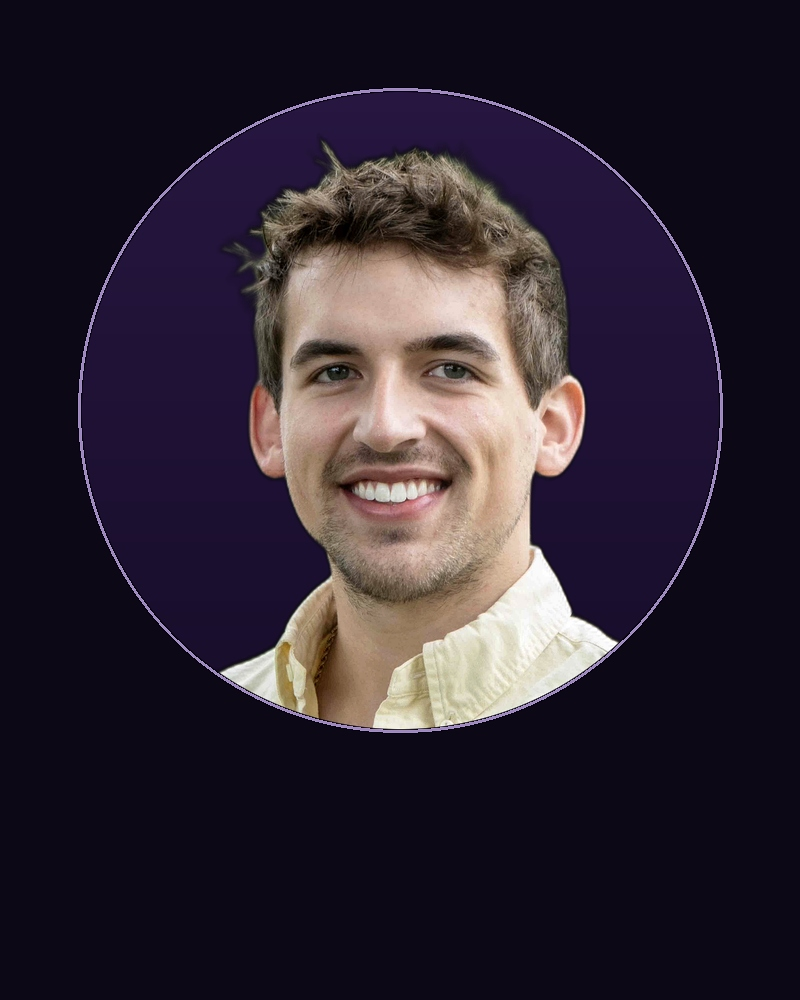
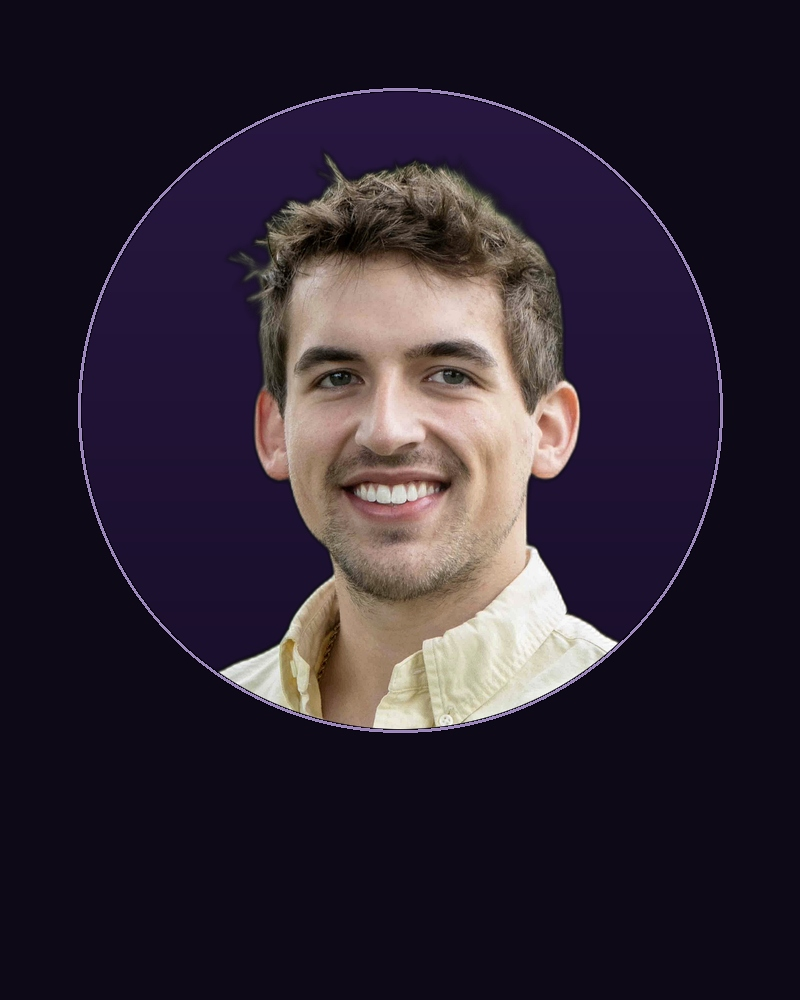
feat: perfected 3D glass world cards, dark purple cursor, portfolio placeholders, and executive showcase modals

diff --git a/src/components/Team.tsx b/src/components/Team.tsx
@@ -7,6 +7,13 @@ import jadaHeadshot from '../assets/Jada_Brown-Headshot-Master.jpg';
 import isaiahHeadshot from '../assets/Isaiah_Chandler-Headshot-Master.jpg';
 import joeHeadshot from '../assets/Joe_Irizarry-Headshot-Master.jpg';
 
+import glassCamera from '../assets/glass-3d-camera.png';
+import glassPlayer from '../assets/glass-3d-videoplayer.png';
+import glassKeyboard from '../assets/glass-3d-keyboard.png';
+import glassStars from '../assets/glass-3d-stars.png';
+import glassStylus from '../assets/glass-3d-stylus.png';
+import glassFilmstrip from '../assets/glass-3d-filmstrip.png';
+
 export const Team: React.FC = () => {
   const [activePortfolio, setActivePortfolio] = useState<{
     name: string;
@@ -39,10 +46,14 @@ export const Team: React.FC = () => {
       subRole: 'Brand & Client Experience Director',
       bio: 'Visionary brand architect leading creative direction, brand core definition, and client partnership. Jada works directly with clients to translate their identity into high-converting visual media.',
       image: jadaHeadshot,
-      imageBg: '#10080F', // Luxury dark rose studio backdrop
+      glassElement: glassPlayer,
+      secondaryGlassElement: glassStars,
+      glassPosition: 'top-[-18px] right-[-18px] w-36 h-36 sm:w-40 sm:h-40',
+      secondaryGlassPosition: 'left-[-8px] bottom-[12px] w-32 h-32',
+      bgGradient: 'radial-gradient(ellipse at 50% 30%, #4D183B 0%, #240C1B 55%, #12050E 100%)',
       icon: Sparkles,
       color: 'from-[#FF94C7] to-[#D83685]',
-      glowColor: 'rgba(255, 148, 199, 0.35)',
+      glowColor: 'rgba(255, 148, 199, 0.45)',
       badge: 'Agency Founder',
       portfolioUrl: '', // Jada's portfolio in development
     },
@@ -52,10 +63,14 @@ export const Team: React.FC = () => {
       subRole: 'Growth & Automation Strategist',
       bio: 'Operations mastermind architecting scalable post-production workflows, 3D web modeling, automated editing pipelines, and cost-effective remote talent integration for seamless client growth.',
       image: isaiahHeadshot,
-      imageBg: '#0C0814', // Deep amethyst tech studio backdrop
+      glassElement: glassKeyboard,
+      secondaryGlassElement: glassStylus,
+      glassPosition: 'top-[-22px] right-[-22px] w-32 h-32 sm:w-36 sm:h-36',
+      secondaryGlassPosition: 'left-[-18px] bottom-[26px] w-36 h-36',
+      bgGradient: 'radial-gradient(ellipse at 50% 30%, #381A5E 0%, #1A0A2F 55%, #0B0415 100%)',
       icon: Cpu,
       color: 'from-[#D4B8FF] to-[#7C3AED]',
-      glowColor: 'rgba(124, 58, 237, 0.35)',
+      glowColor: 'rgba(212, 184, 255, 0.45)',
       badge: 'Ops & Tech Lead',
       portfolioUrl: 'https://isaiah-chandler.netlify.app/',
     },
@@ -65,10 +80,14 @@ export const Team: React.FC = () => {
       subRole: 'Lead Visual Editor',
       bio: 'Master lensman and editor orchestrating high-impact commercial video shoots, studio photography, cinematic cuts, and the signature visual styling that sets Soul Media apart.',
       image: joeHeadshot,
-      imageBg: '#081014', // Midnight studio cyan backdrop
+      glassElement: glassCamera,
+      secondaryGlassElement: glassFilmstrip,
+      glassPosition: 'top-[-26px] right-[-26px] w-36 h-36 sm:w-40 sm:h-40',
+      secondaryGlassPosition: 'left-[-18px] bottom-[26px] w-36 h-36',
+      bgGradient: 'radial-gradient(ellipse at 50% 30%, #164652 0%, #0A2228 55%, #040E11 100%)',
       icon: Camera,
-      color: 'from-[#FF9E7A] to-[#059669]',
-      glowColor: 'rgba(5, 150, 105, 0.35)',
+      color: 'from-[#99FFE0] to-[#059669]',
+      glowColor: 'rgba(153, 255, 224, 0.45)',
       badge: 'Production Engine',
       portfolioUrl: '', // Joe's portfolio in development
     },
@@ -270,47 +289,69 @@ export const Team: React.FC = () => {
                 {/* Image Container — Precision-Framed with Ambient Lighting */}
                 <div
                   className="relative aspect-[4/5] overflow-hidden"
-                  style={{ backgroundColor: member.imageBg }}
+                  style={{ background: member.bgGradient }}
                 >
-                  {/* Rich ambient brand glow — visible, not washed out */}
+                  {/* Rich ambient brand glow on hover */}
                   <div
-                    className={`absolute inset-0 bg-gradient-to-br ${member.color} opacity-0 group-hover:opacity-30 transition-opacity duration-700 pointer-events-none`}
-                    style={{ filter: 'blur(40px)', transform: 'scale(1.2)' }}
+                    className={`absolute inset-0 bg-gradient-to-br ${member.color} opacity-0 group-hover:opacity-40 transition-opacity duration-700 pointer-events-none`}
+                    style={{ filter: 'blur(30px)', transform: 'scale(1.1)' }}
                   />
 
-                  {/* Master pre-framed headshot asset */}
+                  {/* Master Pre-Framed Headshot Asset */}
                   <img
                     src={member.image}
                     alt={member.name}
-                    className="w-full h-full object-cover transition-all duration-700 ease-out group-hover:scale-[1.04]"
+                    className="w-full h-full object-cover relative z-10 transition-transform duration-700 ease-out group-hover:scale-105"
                   />
 
-                  {/* Bottom-only gradient fade — subtle, NOT washed out */}
-                  <div
-                    className="absolute inset-x-0 bottom-0 h-[35%] pointer-events-none transition-opacity duration-500"
-                    style={{
-                      background: 'linear-gradient(to top, #FFF5F8 0%, rgba(255,245,248,0.6) 40%, transparent 100%)',
-                    }}
-                  />
+                  {/* Top-Right Primary 3D Glass Branded Object (Pushed to Extreme Corner — Zero Face Overlap) */}
+                  {member.glassElement && (
+                    <motion.div
+                      className={`absolute ${member.glassPosition || 'top-[-20px] right-[-20px] w-36 h-36'} opacity-85 group-hover:opacity-100 group-hover:scale-110 transition-all duration-700 pointer-events-none z-20 mix-blend-screen`}
+                      animate={{ y: [0, -8, 0], rotate: [0, 3, -3, 0] }}
+                      transition={{ duration: 7, repeat: Infinity, ease: 'easeInOut' }}
+                    >
+                      <img
+                        src={member.glassElement}
+                        alt="Primary 3D Glass Element"
+                        className="w-full h-full object-contain filter drop-shadow-[0_12px_28px_rgba(255,255,255,0.6)]"
+                      />
+                    </motion.div>
+                  )}
 
-                  {/* Subtle top vignette for depth */}
+                  {/* Bottom-Left Secondary 3D Glass Branded Object (Pushed to Extreme Corner — Zero Face Overlap) */}
+                  {member.secondaryGlassElement && (
+                    <motion.div
+                      className={`absolute ${member.secondaryGlassPosition || 'left-[-8px] bottom-[10px] w-32 h-32'} opacity-75 group-hover:opacity-100 group-hover:scale-115 transition-all duration-700 pointer-events-none z-20 mix-blend-screen`}
+                      animate={{ y: [0, 8, 0], rotate: [0, -4, 4, 0] }}
+                      transition={{ duration: 6, repeat: Infinity, ease: 'easeInOut', delay: 0.5 }}
+                    >
+                      <img
+                        src={member.secondaryGlassElement}
+                        alt="Secondary 3D Glass Element"
+                        className="w-full h-full object-contain filter drop-shadow-[0_8px_20px_rgba(255,255,255,0.5)]"
+                      />
+                    </motion.div>
+                  )}
+
+                  {/* Bottom-only gradient fade */}
                   <div
-                    className="absolute inset-x-0 top-0 h-[15%] pointer-events-none"
+                    className="absolute inset-x-0 bottom-0 h-[25%] pointer-events-none transition-opacity duration-500 z-20"
                     style={{
-                      background: `linear-gradient(to bottom, ${member.imageBg}33 0%, transparent 100%)`,
+                      background: 'linear-gradient(to top, #FFF5F8 0%, rgba(255,245,248,0.4) 50%, transparent 100%)',
                     }}
                   />
 
                   {/* Ambient edge glow on hover */}
                   <div
-                    className="absolute inset-0 opacity-0 group-hover:opacity-100 transition-opacity duration-700 pointer-events-none"
+                    className="absolute inset-0 opacity-0 group-hover:opacity-100 transition-opacity duration-700 pointer-events-none z-30"
                     style={{
                       boxShadow: `inset 0 0 60px 10px ${member.glowColor}`,
                     }}
                   />
 
                   {/* Top Floating Badge */}
-                  <div className="absolute top-4 left-4 px-3.5 py-1.5 rounded-full border border-white/20 text-xs font-black text-white flex items-center gap-1.5 shadow-lg"
+                  <div className="absolute top-4 left-4 px-3.5 py-1.5 rounded-full border border-white/20 text-xs font-black text-white flex items-center gap-1.5 shadow-lg z-30"
                     style={{ backgroundColor: 'rgba(26, 22, 38, 0.55)', backdropFilter: 'blur(12px)', WebkitBackdropFilter: 'blur(12px)' }}
                   >
                     <member.icon className="w-3.5 h-3.5" />

diff --git a/src/components/Portfolio.tsx b/src/components/Portfolio.tsx
@@ -2,6 +2,9 @@ import React, { useState } from 'react';
 import { motion, AnimatePresence } from 'framer-motion';
 import { Play, Sparkles, X } from 'lucide-react';
 
+import velvetHorizonImg from '../assets/velvet_horizon_brand.jpg';
+import apexCapitalImg from '../assets/apex_capital_reel.jpg';
+
 export const Portfolio: React.FC = () => {
   const [selectedCategory, setSelectedCategory] = useState('All');
   const [activeVideoUrl, setActiveVideoUrl] = useState<string | null>(null);
@@ -20,7 +23,7 @@ export const Portfolio: React.FC = () => {
     {
       title: 'Velvet Horizon Rebrand & Motion',
       category: 'Brand Strategy',
-      image: 'https://images.unsplash.com/photo-1518173946687-a4c8a383392e?auto=format&fit=crop&q=80&w=1200',
+      image: velvetHorizonImg,
       client: 'Velvet Horizon',
       impact: '3.2x Engagement Surge',
       videoUrl: 'https://www.youtube.com/embed/dQw4w9WgXcQ?autoplay=1',
@@ -36,7 +39,7 @@ export const Portfolio: React.FC = () => {
     {
       title: 'High-Volume Executive Reel Series',
       category: 'Short-Form Reels',
-      image: 'https://images.unsplash.com/photo-1536240478700-b869070f9279?auto=format&fit=crop&q=80&w=1200',
+      image: apexCapitalImg,
       client: 'Apex Capital',
       impact: '420K Reach in 14 Days',
       videoUrl: 'https://www.youtube.com/embed/dQw4w9WgXcQ?autoplay=1',
@@ -73,27 +76,31 @@ export const Portfolio: React.FC = () => {
             <span className="gradient-text">Visual Directing</span>
           </motion.h2>
 
-          {/* Filter Pills */}
-          <div className="flex flex-wrap justify-center gap-2.5 mt-8 p-2 rounded-full glass-card border border-[#FFB6D9]/50 shadow-md">
-            {categories.map((cat) => (
-              <button
-                key={cat}
-                onClick={() => setSelectedCategory(cat)}
-                className={`px-5 py-2.5 rounded-full text-xs font-black transition-all cursor-pointer ${
-                  selectedCategory === cat
-                    ? 'bg-gradient-to-r from-[#FF94C7] via-[#D4B8FF] to-[#99FFE0] text-[#1A1626] shadow-md scale-105'
-                    : 'text-[#4A4259] hover:text-[#1A1626]'
-                }`}
-              >
-                {cat}
-              </button>
-            ))}
-          </div>
+          <p className="text-[#4A4259] text-lg font-medium">
+            Explore recent commercial productions, motion design, and high-converting brand campaigns.
+          </p>
         </div>
 
-        {/* Case Studies Grid */}
-        <div className="grid grid-cols-1 md:grid-cols-2 gap-8">
-          <AnimatePresence mode="wait">
+        {/* Category Filters */}
+        <div className="flex flex-wrap items-center justify-center gap-3 mb-12">
+          {categories.map((category) => (
+            <button
+              key={category}
+              onClick={() => setSelectedCategory(category)}
+              className={`px-5 py-2.5 rounded-full text-xs font-black transition-all cursor-pointer ${
+                selectedCategory === category
+                  ? 'bg-[#1A1626] text-white shadow-lg scale-105'
+                  : 'glass-card border border-[#FFB6D9] text-[#1A1626] hover:border-[#D83685]'
+              }`}
+            >
+              {category}
+            </button>
+          ))}
+        </div>
+
+        {/* Portfolio Grid */}
+        <motion.div layout className="grid grid-cols-1 md:grid-cols-2 gap-8">
+          <AnimatePresence mode="popLayout">
             {filteredStudies.map((study, idx) => (
               <motion.div
                 key={study.title}
@@ -141,7 +148,7 @@ export const Portfolio: React.FC = () => {
               </motion.div>
             ))}
           </AnimatePresence>
-        </div>
+        </motion.div>
       </div>
 
       {/* Video Lightbox Modal */}

diff --git a/src/components/Hero.tsx b/src/components/Hero.tsx
@@ -12,19 +12,7 @@ export const Hero: React.FC = () => {
   return (
     <section id="home" className="relative min-h-screen flex items-center justify-center pt-32 pb-20 px-6 overflow-hidden">
       <div className="max-w-6xl mx-auto text-center relative z-10">
-        {/* Top Floating Badge */}
-        <motion.div
-          initial={{ opacity: 0, y: 20 }}
-          animate={{ opacity: 1, y: 0 }}
-          transition={{ duration: 0.6 }}
-          className="inline-flex items-center gap-2 px-5 py-2.5 rounded-full glass-card border border-[#FFB6D9] mb-8 shadow-lg shadow-[#FFB6D9]/20"
-        >
-          <span className="w-2.5 h-2.5 rounded-full bg-[#D83685] animate-pulse" />
-          <span className="text-xs md:text-sm font-extrabold tracking-wider uppercase text-[#1A1626]">
-            Light Edition • Next-Gen Media Production & Strategy
-          </span>
-          <Sparkles className="w-4 h-4 text-[#D83685]" />
-        </motion.div>
+
 
         {/* Main Title */}
         <motion.h1

diff --git a/src/components/CustomCursor.tsx b/src/components/CustomCursor.tsx
@@ -71,10 +71,10 @@ export const CustomCursor: React.FC = () => {
         }}
       >
         <div
-          className={`rounded-full border border-[#FFB6D9]/50 transition-all duration-300 ${
+          className={`rounded-full border transition-all duration-300 ${
             isHovered
-              ? 'w-12 h-12 bg-[#FFB6D9]/15 backdrop-blur-sm border-[#FFB6D9]'
-              : 'w-8 h-8 bg-transparent'
+              ? 'w-12 h-12 bg-[#2D124D]/20 backdrop-blur-sm border-[#2D124D]'
+              : 'w-8 h-8 bg-transparent border-[#2D124D]/60'
           }`}
         />
       </div>
@@ -86,7 +86,7 @@ export const CustomCursor: React.FC = () => {
           transform: `translate3d(${position.x - 3}px, ${position.y - 3}px, 0)`,
         }}
       >
-        <div className="w-1.5 h-1.5 bg-[#FFB6D9] rounded-full shadow-[0_0_8px_#FFB6D9]" />
+        <div className="w-1.5 h-1.5 bg-[#2D124D] rounded-full shadow-[0_0_8px_rgba(45,18,77,0.6)]" />
       </div>
     </>
   );

diff --git a/src/components/Packages.tsx b/src/components/Packages.tsx
@@ -207,7 +207,7 @@ export const Packages: React.FC = () => {
 
         {/* Package Cards Grid */}
         <div className="grid grid-cols-1 md:grid-cols-3 gap-8">
-          <AnimatePresence mode="wait">
+          <AnimatePresence mode="popLayout">
             {packageData[activeCategory].map((pkg, index) => (
               <motion.div
                 key={pkg.name}
